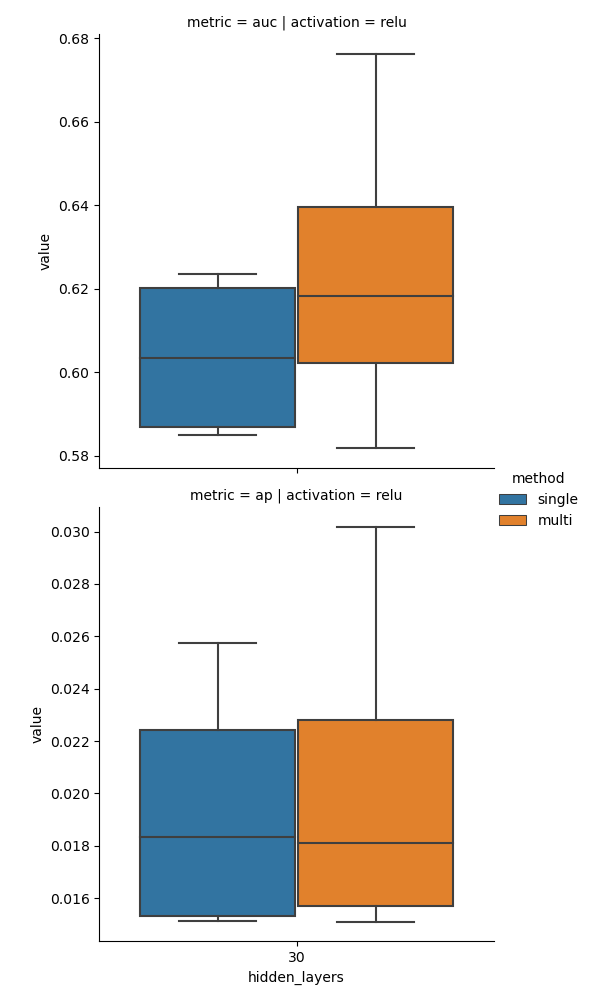
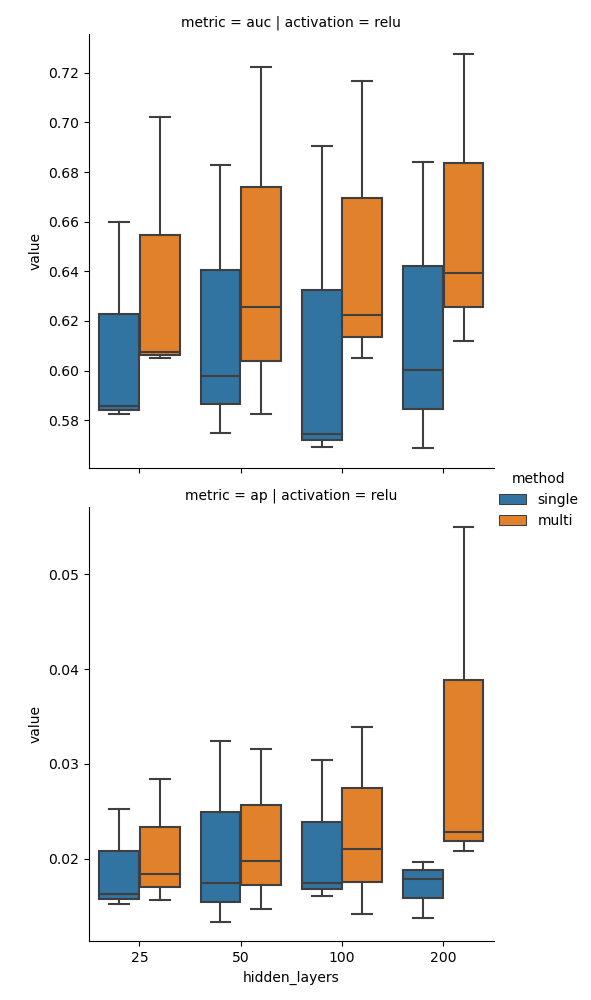
commiting changes

diff --git a/Models/sklearn/mlp_classifier.py b/Models/sklearn/mlp_classifier.py
@@ -29,17 +29,26 @@ def sklearn_mlp(
     )
     print('Multi Fit')
     if run_refined:
-        multi_coefs = copy.deepcopy(multi_model.coefs_)
-        multi_intercepts = copy.deepcopy(multi_model.intercepts_)
-        multi_coefs[-1] = multi_coefs[-1][:, [0]]
-        multi_intercepts[-1] = multi_intercepts[-1][0]
-
-        multi_refined_model = MLPClassifierOverride(
-            hidden_layer_sizes=hidden_layers, activation=activation,
-            random_state=random_state, init_coefs_=multi_coefs,
-            init_intercepts_=multi_intercepts)
-        multi_refined_model.fit(x_train, e1_train)
-        multi_refined_results = multi_refined_model.predict_proba(x_test)[:, 0]
+        multi_refined_model = MLPClassifier(hidden_layer_sizes=hidden_layers,
+                                 activation=activation,
+                                 learning_rate_init=learning_rate,
+                                 alpha=regularization,
+                                 random_state=random_state,
+                                 batch_size=batch_size,
+                                 max_iter=epochs)\
+            .fit(x_train, e2_train).partial_fit(x_train, e1_train)
+        multi_refined_results = multi_refined_model.predict_proba(x_test)[:, 1]
+        # multi_coefs = copy.deepcopy(multi_model.coefs_)
+        # multi_intercepts = copy.deepcopy(multi_model.intercepts_)
+        # multi_coefs[-1] = multi_coefs[-1][:, [0]]
+        # multi_intercepts[-1] = multi_intercepts[-1][0]
+        #
+        # multi_refined_model = MLPClassifierOverride(
+        #     hidden_layer_sizes=hidden_layers, activation=activation,
+        #     random_state=random_state, init_coefs_=multi_coefs,
+        #     init_intercepts_=multi_intercepts)
+        # multi_refined_model.fit(x_train, e1_train)
+        # multi_refined_results = multi_refined_model.predict_proba(x_test)[:, 1]
     else:
         multi_refined_results = None
 

diff --git a/Experiments/shared_datagen.py b/Experiments/shared_datagen.py
@@ -7,24 +7,24 @@ the the path to rare_event_mll/ to your PYTHONPATH."""
 and they will all be run. be aware when combining multiple lists that this
 can lead to very long run time to complete all combinations."""
 
-save_file = 'torch/test_rs.csv'  # saved inside Results/ folder
+save_file = 'sklearn/test_rs.csv'  # saved inside Results/ folder
 n_patients = 50000  # n of samples to generate
 n_features = 100  # n of features to generate
 event_rate = 0.01  # event rate for sample
-model_types = ['torch']  # options are 'sklearn' and 'torch'
-hidden_layers = [[200], [100], [50], [25]]  # list of hidden layer sizes
+model_types = ['sklearn']  # options are 'sklearn' and 'torch'
+hidden_layers = [[50]]  # list of hidden layer sizes
 activations = ['relu']  # activation function. currently only support relu
 similarity_measures = {
-    'n_distinct': [5],  # n of distinct features for each label
-    'n_random_features': [20],  # n of hidden features for each label
+    'n_distinct': [25, 20, 15, 10, 5, 0],  # n of distinct features for each label
+    'n_random_features': [25],  # n of hidden features for each label
     'shared_second_layer_weights': [True]  # whether the labels share the same weights of their features
 }
-n_iters = 3  # n of iterations to run each combination
+n_iters = 5  # n of iterations to run each combination
 test_perc = 0.25  # percent of samples to use for test set
 print_time = True  # whether to print updates after each combination is complete
 print_output = False  # whether to print details about each generated dataset
 plot = False  # whether to plot details of each generated dataset
-run_refined = False
+run_refined = True
 
 results = base_auc_ap(n=n_patients, p=n_features, er=event_rate,
                       model_types=model_types, hidden_layers=hidden_layers,

diff --git a/Results/plot_shared_features_results.py b/Results/plot_shared_features_results.py
@@ -2,7 +2,7 @@ from Results.base_plot_auc_ap import plot_auc_ap
 
 file_name = 'sklearn/test_rs.csv'
 vars = {
-    'x_var': 'hidden_layers',
+    'x_var': '% overlap',
     'hue_var': 'method',
     'row_var': 'metric',
     'col_var': 'activation'
